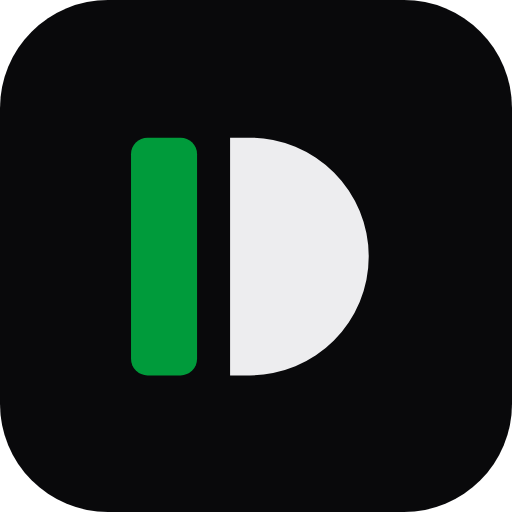
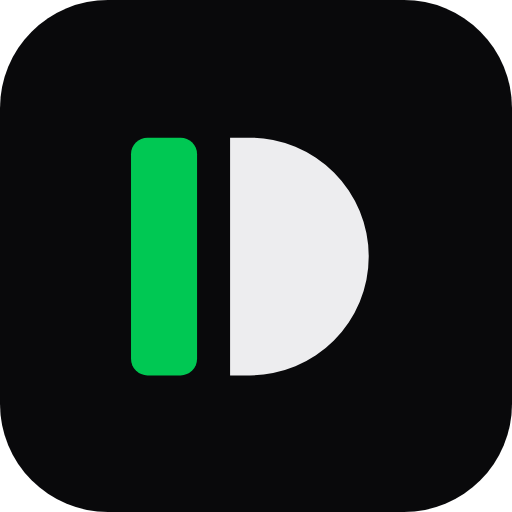
Switch the brand green to #00C853 with dark button text
Lighter green across the logo, icons, share images and highlights.
Primary buttons go back to dark text, which also restores AA contrast.

Claude-Session: https://claude.ai/code/session_01D9d5S7aT1CD7U4sg6pUodw

Changed region(s): [[0.25, 0.25, 0.4062, 0.75]]

diff --git a/es/index.html b/es/index.html
@@ -30,9 +30,9 @@
 <link rel="apple-touch-icon" href="/assets/img/apple-touch-icon.png">
 <link rel="manifest" href="/site.webmanifest">
 <link rel="preload" href="/assets/fonts/instrument-sans-latin.woff2" as="font" type="font/woff2" crossorigin>
-<link rel="stylesheet" href="/assets/css/main.css?v=bd72b523">
+<link rel="stylesheet" href="/assets/css/main.css?v=e911b12b">
 <script>document.documentElement.classList.add('js')</script>
-<script src="/assets/js/main.js?v=bd72b523" defer></script>
+<script src="/assets/js/main.js?v=e911b12b" defer></script>
 <script type="application/ld+json">{"@context":"https://schema.org","@graph":[{"@type":"ProfessionalService","@id":"https://henriquexaud.github.io/#organization","name":"DuaTech","url":"https://henriquexaud.github.io/","logo":"https://henriquexaud.github.io/assets/img/icon-512.png","image":"https://henriquexaud.github.io/assets/img/og-es.png","description":"Sistemas de gestión, tiendas online, aplicaciones y automatizaciones a medida. DuaTech crea software que resuelve problemas reales de tu negocio.","slogan":"Diseñamos y construimos software que resuelve problemas reales.","foundingDate":"2021","founder":{"@type":"Person","name":"Henrique Xaud","sameAs":["https://www.linkedin.com/in/henrique-xaud/"]},"areaServed":"BR","knowsLanguage":["pt-BR","en","es"],"telephone":"+5512981324077","sameAs":["https://www.linkedin.com/in/henrique-xaud/"],"hasOfferCatalog":{"@type":"OfferCatalog","name":"Qué hacemos.","itemListElement":[{"@type":"Offer","itemOffered":{"@type":"Service","name":"Sistemas de gestión","description":"Control total de la operación, a la medida de cómo trabaja tu empresa."}},{"@type":"Offer","itemOffered":{"@type":"Service","name":"Tiendas online","description":"Ventas online conectadas al stock, los pagos y los envíos."}},{"@type":"Offer","itemOffered":{"@type":"Service","name":"Aplicaciones","description":"Tu empresa en el móvil de tus clientes y de tu equipo."}},{"@type":"Offer","itemOffered":{"@type":"Service","name":"Integraciones y automatización","description":"Tus sistemas hablando entre sí, sin retrabajo."}},{"@type":"Offer","itemOffered":{"@type":"Service","name":"Paneles e informes","description":"Las cifras del negocio claras, siempre que las necesites."}},{"@type":"Offer","itemOffered":{"@type":"Service","name":"Inteligencia artificial","description":"Atención al cliente y tareas diarias más rápidas con IA."}}]}},{"@type":"WebSite","@id":"https://henriquexaud.github.io/#website","url":"https://henriquexaud.github.io/","name":"DuaTech","inLanguage":"es","publisher":{"@id":"https://henriquexaud.github.io/#organization"}},{"@type":"FAQPage","inLanguage":"es","mainEntity":[{"@type":"Question","name":"¿Cuánto cuesta?","acceptedAnswer":{"@type":"Answer","text":"Depende de lo que necesite tu empresa. Después de una conversación, recibes una propuesta con alcance, plazo y precio definidos."}},{"@type":"Question","name":"¿Cuánto tiempo lleva?","acceptedAnswer":{"@type":"Answer","text":"Depende del tamaño del proyecto. Entregamos por etapas para que empieces a usar el sistema cuanto antes."}},{"@type":"Question","name":"¿El sistema es de mi empresa?","acceptedAnswer":{"@type":"Answer","text":"Sí. El sistema y los datos son de tu empresa, sin licencias por usuario."}},{"@type":"Question","name":"¿Ofrecéis soporte?","acceptedAnswer":{"@type":"Answer","text":"Sí. Seguimos a tu lado con soporte y mejoras continuas."}},{"@type":"Question","name":"¿Necesito saber de tecnología?","acceptedAnswer":{"@type":"Answer","text":"No. Tú te ocupas del negocio y nosotros de la tecnología, siempre explicándolo todo de forma sencilla."}}]}]}</script>
 </head>
 <body id="top">

diff --git a/index.html b/index.html
@@ -30,9 +30,9 @@
 <link rel="apple-touch-icon" href="/assets/img/apple-touch-icon.png">
 <link rel="manifest" href="/site.webmanifest">
 <link rel="preload" href="/assets/fonts/instrument-sans-latin.woff2" as="font" type="font/woff2" crossorigin>
-<link rel="stylesheet" href="/assets/css/main.css?v=bd72b523">
+<link rel="stylesheet" href="/assets/css/main.css?v=e911b12b">
 <script>document.documentElement.classList.add('js')</script>
-<script src="/assets/js/main.js?v=bd72b523" defer></script>
+<script src="/assets/js/main.js?v=e911b12b" defer></script>
 <script type="application/ld+json">{"@context":"https://schema.org","@graph":[{"@type":"ProfessionalService","@id":"https://henriquexaud.github.io/#organization","name":"DuaTech","url":"https://henriquexaud.github.io/","logo":"https://henriquexaud.github.io/assets/img/icon-512.png","image":"https://henriquexaud.github.io/assets/img/og-pt.png","description":"Sistemas de gestão, lojas virtuais, aplicativos e automações sob medida. A DuaTech cria software que resolve problemas reais do seu negócio.","slogan":"Projetamos e construímos software que resolve problemas reais.","foundingDate":"2021","founder":{"@type":"Person","name":"Henrique Xaud","sameAs":["https://www.linkedin.com/in/henrique-xaud/"]},"areaServed":"BR","knowsLanguage":["pt-BR","en","es"],"telephone":"+5512981324077","sameAs":["https://www.linkedin.com/in/henrique-xaud/"],"hasOfferCatalog":{"@type":"OfferCatalog","name":"O que fazemos.","itemListElement":[{"@type":"Offer","itemOffered":{"@type":"Service","name":"Sistemas de gestão","description":"Controle completo da operação, do jeito que a sua empresa trabalha."}},{"@type":"Offer","itemOffered":{"@type":"Service","name":"Lojas virtuais","description":"Vendas online integradas ao estoque, aos pagamentos e às entregas."}},{"@type":"Offer","itemOffered":{"@type":"Service","name":"Aplicativos","description":"Sua empresa no celular dos clientes e da equipe."}},{"@type":"Offer","itemOffered":{"@type":"Service","name":"Integrações e automação","description":"Seus sistemas conversando entre si, sem retrabalho."}},{"@type":"Offer","itemOffered":{"@type":"Service","name":"Painéis e relatórios","description":"Os números do negócio claros, sempre que você precisar."}},{"@type":"Offer","itemOffered":{"@type":"Service","name":"Inteligência artificial","description":"Atendimento e tarefas do dia a dia mais rápidos com IA."}}]}},{"@type":"WebSite","@id":"https://henriquexaud.github.io/#website","url":"https://henriquexaud.github.io/","name":"DuaTech","inLanguage":"pt-BR","publisher":{"@id":"https://henriquexaud.github.io/#organization"}},{"@type":"FAQPage","inLanguage":"pt-BR","mainEntity":[{"@type":"Question","name":"Quanto custa?","acceptedAnswer":{"@type":"Answer","text":"Depende do que a sua empresa precisa. Depois de uma conversa, você recebe uma proposta com escopo, prazo e valor definidos."}},{"@type":"Question","name":"Quanto tempo leva?","acceptedAnswer":{"@type":"Answer","text":"Depende do tamanho do projeto. Entregamos em etapas, para você começar a usar o sistema o quanto antes."}},{"@type":"Question","name":"O sistema fica com a minha empresa?","acceptedAnswer":{"@type":"Answer","text":"Sim. O sistema e os dados são da sua empresa, sem licença por usuário."}},{"@type":"Question","name":"Vocês oferecem suporte?","acceptedAnswer":{"@type":"Answer","text":"Sim. Seguimos ao seu lado com suporte e melhorias contínuas."}},{"@type":"Question","name":"Preciso entender de tecnologia?","acceptedAnswer":{"@type":"Answer","text":"Não. Você cuida do negócio e nós da tecnologia, sempre explicando tudo de forma simples."}}]}]}</script>
 </head>
 <body id="top">

diff --git a/en/index.html b/en/index.html
@@ -30,9 +30,9 @@
 <link rel="apple-touch-icon" href="/assets/img/apple-touch-icon.png">
 <link rel="manifest" href="/site.webmanifest">
 <link rel="preload" href="/assets/fonts/instrument-sans-latin.woff2" as="font" type="font/woff2" crossorigin>
-<link rel="stylesheet" href="/assets/css/main.css?v=bd72b523">
+<link rel="stylesheet" href="/assets/css/main.css?v=e911b12b">
 <script>document.documentElement.classList.add('js')</script>
-<script src="/assets/js/main.js?v=bd72b523" defer></script>
+<script src="/assets/js/main.js?v=e911b12b" defer></script>
 <script type="application/ld+json">{"@context":"https://schema.org","@graph":[{"@type":"ProfessionalService","@id":"https://henriquexaud.github.io/#organization","name":"DuaTech","url":"https://henriquexaud.github.io/","logo":"https://henriquexaud.github.io/assets/img/icon-512.png","image":"https://henriquexaud.github.io/assets/img/og-en.png","description":"Custom business systems, online stores, apps and automation. DuaTech builds software that solves real problems for your business.","slogan":"We design and build software that solves real problems.","foundingDate":"2021","founder":{"@type":"Person","name":"Henrique Xaud","sameAs":["https://www.linkedin.com/in/henrique-xaud/"]},"areaServed":"BR","knowsLanguage":["pt-BR","en","es"],"telephone":"+5512981324077","sameAs":["https://www.linkedin.com/in/henrique-xaud/"],"hasOfferCatalog":{"@type":"OfferCatalog","name":"What we do.","itemListElement":[{"@type":"Offer","itemOffered":{"@type":"Service","name":"Business systems","description":"Full control of your operations, built around the way your company works."}},{"@type":"Offer","itemOffered":{"@type":"Service","name":"Online stores","description":"Online sales connected to your inventory, payments and shipping."}},{"@type":"Offer","itemOffered":{"@type":"Service","name":"Apps","description":"Your business on your customers’ and team’s phones."}},{"@type":"Offer","itemOffered":{"@type":"Service","name":"Integration and automation","description":"Your systems talking to each other, with no rework."}},{"@type":"Offer","itemOffered":{"@type":"Service","name":"Dashboards and reports","description":"Clear business numbers, whenever you need them."}},{"@type":"Offer","itemOffered":{"@type":"Service","name":"Artificial intelligence","description":"Faster customer service and day-to-day tasks with AI."}}]}},{"@type":"WebSite","@id":"https://henriquexaud.github.io/#website","url":"https://henriquexaud.github.io/","name":"DuaTech","inLanguage":"en","publisher":{"@id":"https://henriquexaud.github.io/#organization"}},{"@type":"FAQPage","inLanguage":"en","mainEntity":[{"@type":"Question","name":"How much does it cost?","acceptedAnswer":{"@type":"Answer","text":"It depends on what your company needs. After a conversation, you receive a proposal with a clear scope, timeline and price."}},{"@type":"Question","name":"How long does it take?","acceptedAnswer":{"@type":"Answer","text":"It depends on the size of the project. We deliver in stages so you can start using the system as soon as possible."}},{"@type":"Question","name":"Does my company own the system?","acceptedAnswer":{"@type":"Answer","text":"Yes. The system and the data belong to your company, with no per-user licenses."}},{"@type":"Question","name":"Do you offer support?","acceptedAnswer":{"@type":"Answer","text":"Yes. We stay by your side with ongoing support and improvements."}},{"@type":"Question","name":"Do I need to understand technology?","acceptedAnswer":{"@type":"Answer","text":"No. You run the business and we handle the technology, always explaining things simply."}}]}]}</script>
 </head>
 <body id="top">

diff --git a/assets/css/main.css b/assets/css/main.css
@@ -27,9 +27,9 @@
   --fg-2: #a3a6ad;
   --fg-3: #80848d;
 
-  --accent: #009b3b;
-  --accent-hover: #00862f;
-  --accent-ink: #ffffff;
+  --accent: #00c853;
+  --accent-hover: #1fd86a;
+  --accent-ink: #04140a;
   --warn: #f5a524;
 
   --font: 'Instrument Sans', ui-sans-serif, system-ui, -apple-system, 'Segoe UI', Roboto, sans-serif;
@@ -730,7 +730,7 @@ p {
   height: 22px;
   margin-top: 2px;
   border-radius: 50%;
-  background: rgb(0 155 59 / 0.16);
+  background: rgb(0 200 83 / 0.14);
   color: var(--accent);
 }
 

diff --git a/404.html b/404.html
@@ -9,7 +9,7 @@
 <meta name="color-scheme" content="dark">
 <link rel="icon" href="/favicon.ico" sizes="32x32">
 <link rel="icon" href="/assets/img/favicon.svg" type="image/svg+xml">
-<link rel="stylesheet" href="/assets/css/main.css?v=bd72b523">
+<link rel="stylesheet" href="/assets/css/main.css?v=e911b12b">
 </head>
 <body>
 <main class="not-found">
